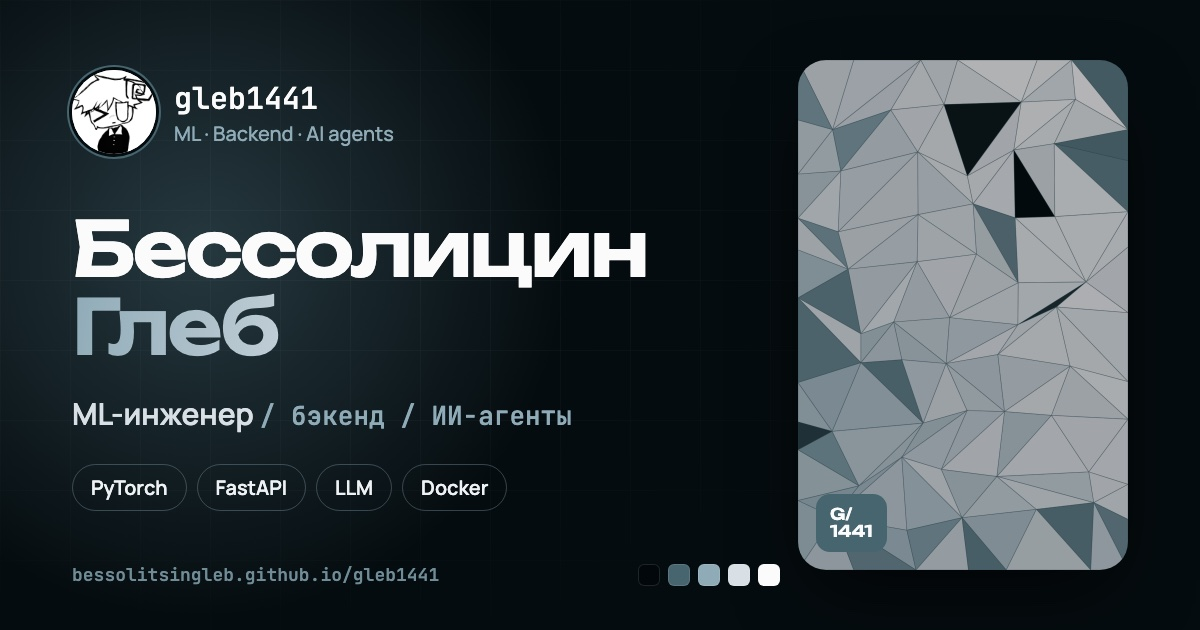
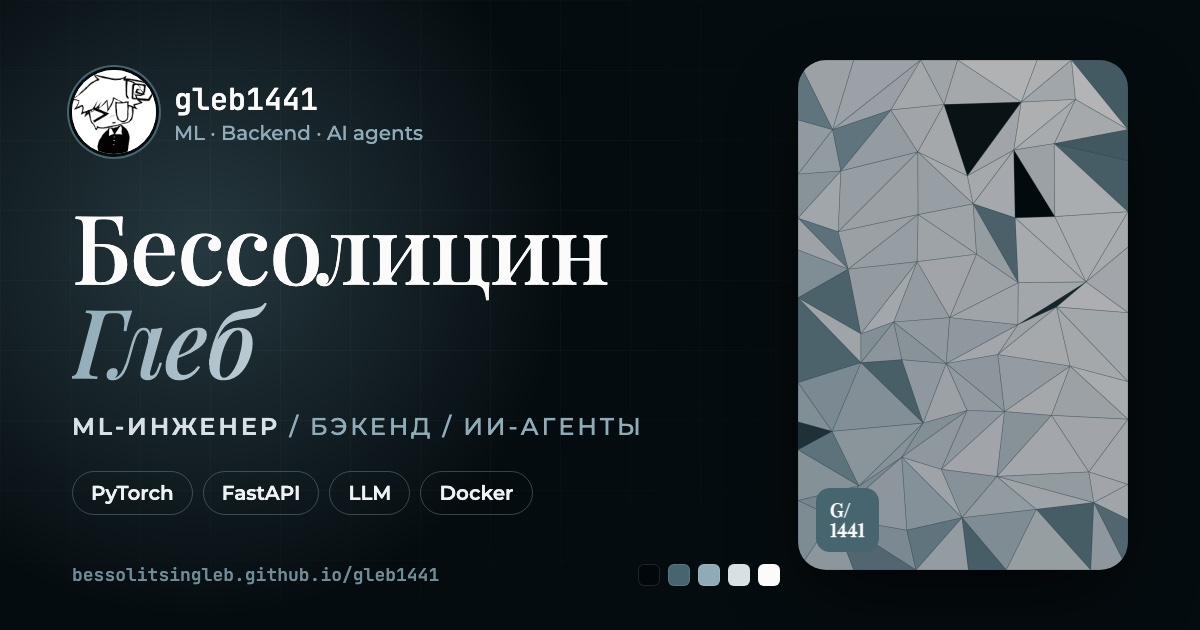
Новые шрифты: Playfair Display + Montserrat в духе «The Seasons»
Заголовки — контрастная антиква с курсивным акцентом, подписи — Montserrat
капсом с разрядкой; обновлены превью ссылки и страница 404.

diff --git a/assets/css/style.css b/assets/css/style.css
@@ -50,8 +50,8 @@
   --c-line: rgba(216, 223, 229, .12);
   --c-muted: rgba(216, 223, 229, .62);
 
-  --font: 'Manrope', system-ui, -apple-system, 'Segoe UI', sans-serif;
-  --font-display: 'Unbounded', 'Manrope', system-ui, sans-serif;
+  --font: 'Montserrat', system-ui, -apple-system, 'Segoe UI', sans-serif;
+  --font-display: 'Playfair Display', Georgia, 'Times New Roman', serif;
   --font-mono: 'JetBrains Mono', ui-monospace, 'SFMono-Regular', Menlo, monospace;
 
   --container: 1240px;
@@ -1797,3 +1797,74 @@ html:not(.js) .footer__big { opacity: 1; transform: none; }
   background: linear-gradient(180deg, rgba(1, 7, 10, .62) 0%, rgba(1, 7, 10, .18) 38%, transparent 60%);
 }
 .project__cover--img .project__index, .project__cover--img .project__cat, .project__cover--img .project__flag { z-index: 1; }
+
+/* ==========================================================================
+   ТИПОГРАФИКА: Playfair Display (заголовки) + Montserrat (текст и подписи)
+   Пара в духе «The Seasons + Beautifully Delicious»
+   ========================================================================== */
+body { font-size: 16px; line-height: 1.65; }
+
+/* заголовки: антиква, прямое начертание + курсивный акцент */
+.hero__title, .section__title, .about__lead, .stat__value, .cycle__title, .stack-card__title,
+.ach__title, .project__title, .project__index, .contact__title, .highlight__value,
+.marquee__item, .footer__big, .facade__tag, .preloader__nick { letter-spacing: -.01em; }
+
+.hero__title { font-weight: 500; line-height: .98; }
+.hero__title .line--accent > span { font-style: italic; font-weight: 500; padding-right: .08em; }
+.section__title { font-weight: 500; font-size: clamp(2.5rem, 6vw, 5rem); }
+.about__lead { font-weight: 500; font-size: clamp(1.6rem, 2.7vw, 2.35rem); line-height: 1.2; }
+.contact__title { font-weight: 500; font-size: clamp(2.1rem, 3.9vw, 3.2rem); }
+.contact__accent { font-style: italic; }
+.stat__value { font-weight: 500; font-size: clamp(2.4rem, 4.2vw, 3.6rem); }
+.highlight__value { font-weight: 600; font-size: clamp(1.6rem, 2.6vw, 2.2rem); }
+.ach__title, .stack-card__title { font-weight: 600; font-size: clamp(1.25rem, 1.8vw, 1.55rem); }
+.cycle__title { font-weight: 600; font-size: clamp(1.25rem, 1.7vw, 1.5rem); }
+.project__title { font-weight: 600; font-size: 1.4rem; }
+.project__index { font-style: italic; font-weight: 500; }
+.marquee__item { font-style: italic; font-weight: 500; font-size: clamp(1.35rem, 2.6vw, 2rem); }
+.facade__tag { font-weight: 600; font-size: 17px; }
+.footer__big { font-style: italic; font-weight: 500; font-size: min(15rem, calc((100vw - 2 * var(--gutter)) / 4.4)); line-height: 1; padding-bottom: .05em; }
+.tl-card__title { font-weight: 600; }
+
+/* подписи: широкий гротеск капсом с разрядкой */
+.card__title, .eyebrow, .section__kicker, .ach__place, .cycle__lead, .sirius__org, .form__head .mono,
+.facts__head .mono, .channel__label, .highlight__label, .project__cat, .ach__badge, .project__flag, .course__date {
+  font-family: var(--font);
+}
+.card__title, .facts__head .mono, .form__head .mono {
+  font-size: 11.5px;
+  font-weight: 600;
+  letter-spacing: .16em;
+  text-transform: uppercase;
+}
+.section__kicker { text-transform: uppercase; letter-spacing: .14em; font-size: clamp(.78rem, 1vw, .9rem); font-weight: 500; }
+.channel__label { font-size: 11px; font-weight: 600; letter-spacing: .14em; text-transform: uppercase; }
+.ach__place { font-size: 12px; letter-spacing: .1em; text-transform: uppercase; }
+.project__cat { font-size: 10.5px; font-weight: 600; letter-spacing: .12em; text-transform: uppercase; }
+.course__date { font-size: 11px; font-weight: 600; letter-spacing: .06em; }
+.eyebrow { font-size: 12px; font-weight: 600; letter-spacing: .12em; text-transform: uppercase; }
+.hero__role { font-weight: 600; }
+.nav__link { font-weight: 500; }
+
+@media (max-width: 1099px) {
+  .nav__link { font-family: var(--font-display); font-weight: 500; letter-spacing: -.01em; }
+  .nav__link > span:last-child { font-style: italic; }
+}
+@media (max-width: 767px) {
+  .eyebrow { font-size: 11px; }
+  .ach__title, .stack-card__title { font-size: 1.3rem; }
+}
+
+/* размер имени: самая длинная строка ≈ 5.6em */
+.hero__title { font-size: min(6.4rem, 7.4vw); }
+.footer__big { font-size: min(18rem, calc((100vw - 2 * var(--gutter)) / 3.5)); }
+@media (max-width: 1099px) { .hero__title { font-size: min(8rem, 14.5vw); } }
+@media (max-width: 767px) { .hero__title { font-size: min(4.6rem, 14.8vw); } }
+@media (max-width: 359px) { .hero__title { font-size: 14.4vw; } }
+
+/* ровные (прописные) цифры в заголовках Playfair */
+.hero__title, .section__title, .stat__value, .highlight__value, .project__index, .facade__tag,
+.ach__title, .project__title, .stack-card__title, .cycle__title, .footer__big, .marquee__item, .about__lead {
+  font-variant-numeric: lining-nums;
+}
+.stat__value { font-variant-numeric: lining-nums tabular-nums; }

diff --git a/index.html b/index.html
@@ -18,19 +18,19 @@
   <meta property="og:url" content="https://bessolitsingleb.github.io/gleb1441/">
   <meta property="og:title" content="Бессолицин Глеб — ML-инженер · gleb1441">
   <meta property="og:description" content="ML-инженер и бэкенд-разработчик: нейросети, ИИ-агенты, чат-боты, FastAPI. Портфолио, достижения и контакты.">
-  <meta property="og:image" content="https://bessolitsingleb.github.io/gleb1441/assets/img/og.jpg">
+  <meta property="og:image" content="https://bessolitsingleb.github.io/gleb1441/assets/img/og.jpg?v=2">
   <meta property="og:image:width" content="1200">
   <meta property="og:image:height" content="630">
   <meta property="og:image:alt" content="gleb1441 — Бессолицин Глеб, ML-инженер">
   <meta name="twitter:card" content="summary_large_image">
-  <meta name="twitter:image" content="https://bessolitsingleb.github.io/gleb1441/assets/img/og.jpg">
+  <meta name="twitter:image" content="https://bessolitsingleb.github.io/gleb1441/assets/img/og.jpg?v=2">
 
   <link rel="icon" type="image/png" href="assets/img/favicon.png">
   <link rel="apple-touch-icon" href="assets/img/apple-touch-icon.png">
 
   <link rel="preconnect" href="https://fonts.googleapis.com">
   <link rel="preconnect" href="https://fonts.gstatic.com" crossorigin>
-  <link href="https://fonts.googleapis.com/css2?family=JetBrains+Mono:wght@400;500&family=Manrope:wght@400;500;600;700&family=Unbounded:wght@500;600;700&display=swap" rel="stylesheet">
+  <link href="https://fonts.googleapis.com/css2?family=JetBrains+Mono:wght@400;500&family=Montserrat:ital,wght@0,400..700;1,400..500&family=Playfair+Display:ital,wght@0,400..800;1,400..700&display=swap" rel="stylesheet">
 
   <!-- тема и язык выставляются до отрисовки, чтобы не было «мигания» -->
   <script>
@@ -53,7 +53,7 @@
     })();
   </script>
   <!-- ?v=… — версия файлов: увеличьте число после правок, чтобы браузеры сразу подхватили изменения -->
-  <link rel="stylesheet" href="assets/css/style.css?v=7">
+  <link rel="stylesheet" href="assets/css/style.css?v=8">
 </head>
 <body>
 
@@ -444,7 +444,7 @@
 
   <div class="toast" id="toast" role="status" aria-live="polite"></div>
 
-  <script src="assets/js/content.js?v=7"></script>
-  <script src="assets/js/main.js?v=7"></script>
+  <script src="assets/js/content.js?v=8"></script>
+  <script src="assets/js/main.js?v=8"></script>
 </body>
 </html>

diff --git a/404.html b/404.html
@@ -8,7 +8,7 @@
   <link rel="icon" type="image/png" href="assets/img/favicon.png">
   <link rel="preconnect" href="https://fonts.googleapis.com">
   <link rel="preconnect" href="https://fonts.gstatic.com" crossorigin>
-  <link href="https://fonts.googleapis.com/css2?family=JetBrains+Mono:wght@400&family=Manrope:wght@500;600&family=Unbounded:wght@600&display=swap" rel="stylesheet">
+  <link href="https://fonts.googleapis.com/css2?family=JetBrains+Mono:wght@400&family=Montserrat:wght@500;600&family=Playfair+Display:ital,wght@1,500&display=swap" rel="stylesheet">
   <style>
     *, *::before, *::after { box-sizing: border-box; }
     body {
@@ -20,15 +20,16 @@
       padding: 24px 16px;
       background: #01070A;
       color: #FBFBFB;
-      font-family: 'Manrope', system-ui, sans-serif;
+      font-family: 'Montserrat', system-ui, sans-serif;
       text-align: center;
     }
     .code {
-      font-family: 'Unbounded', system-ui, sans-serif;
-      font-weight: 600;
+      font-family: 'Playfair Display', Georgia, serif;
+      font-style: italic;
+      font-weight: 500;
       font-size: clamp(5rem, 26vw, 14rem);
       line-height: .9;
-      letter-spacing: -.06em;
+      letter-spacing: -.02em;
       color: transparent;
       background: linear-gradient(180deg, #8FABB7, rgba(70, 101, 111, .2));
       -webkit-background-clip: text;
